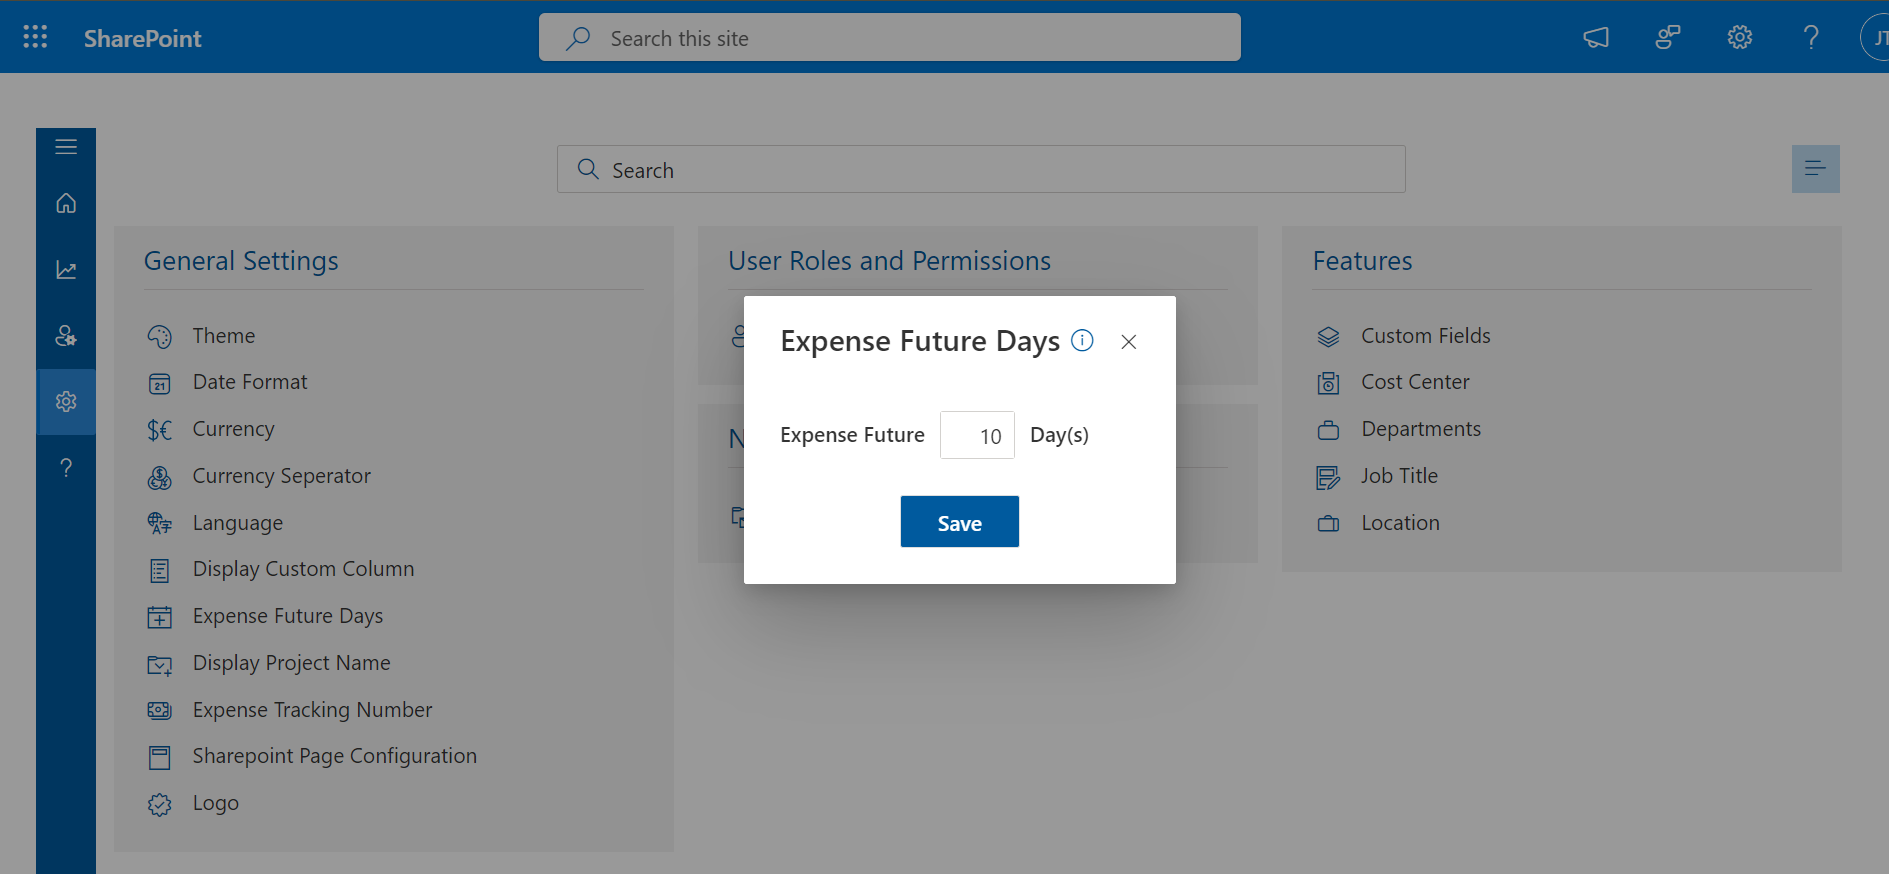
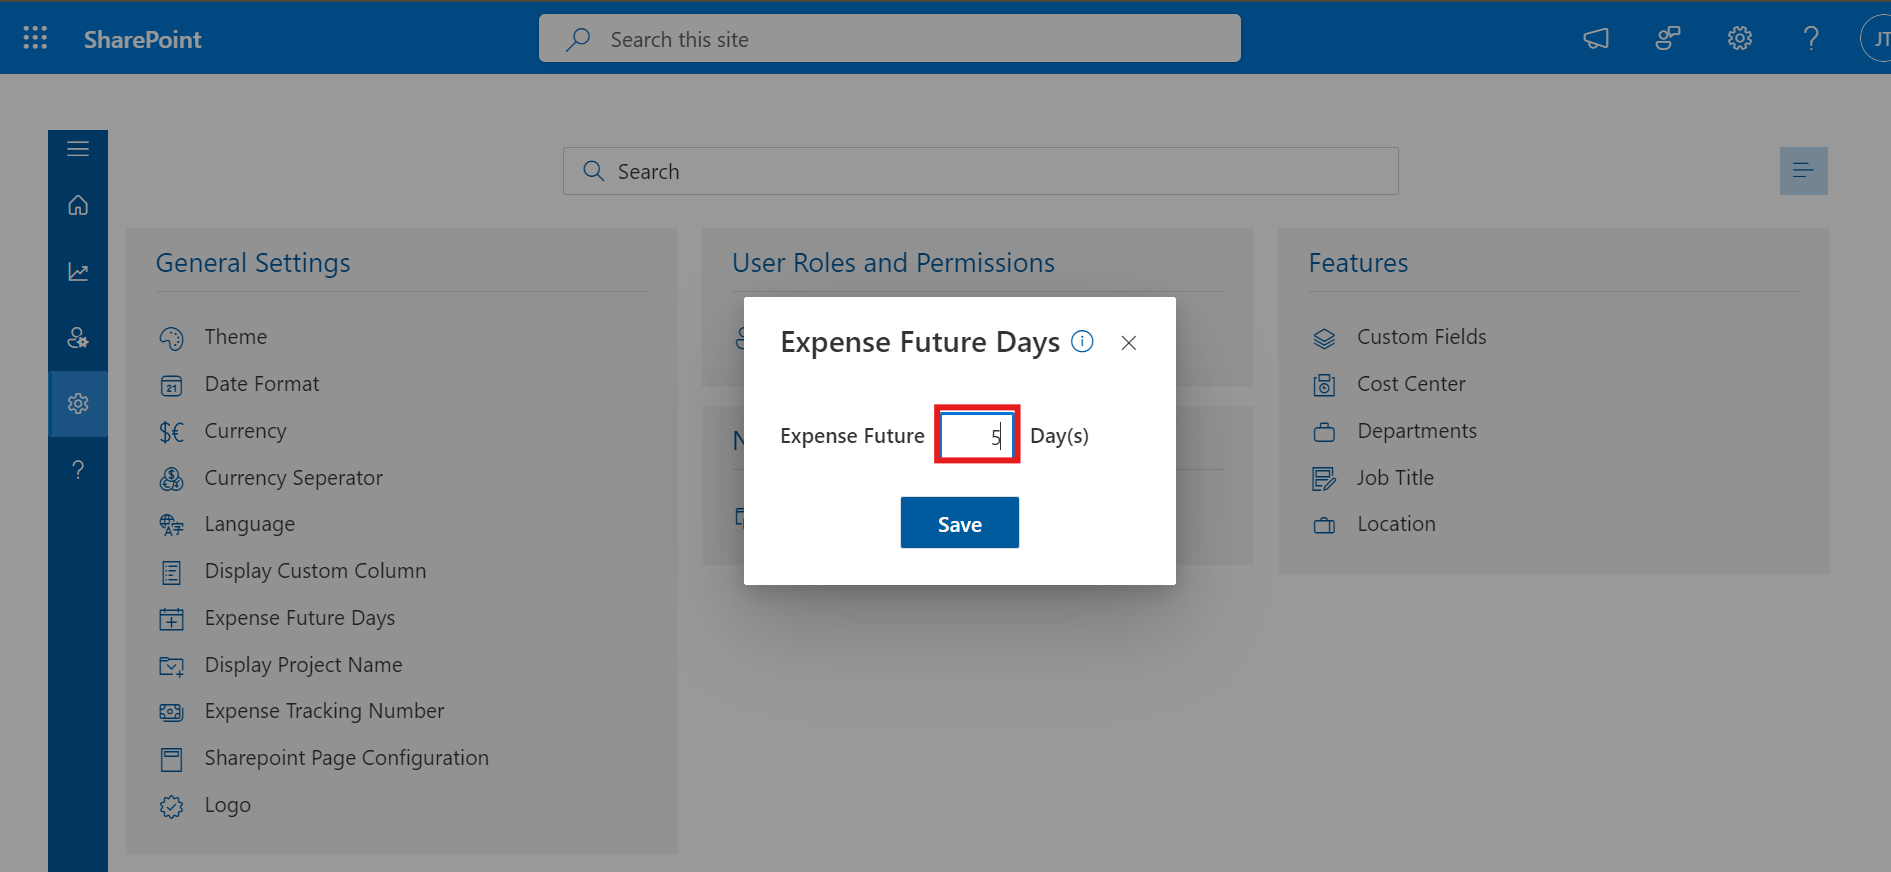
release notes

diff --git a/Expense-tracker/modern/admin/settings/index.html b/Expense-tracker/modern/admin/settings/index.html
@@ -146,25 +146,37 @@
                                             height="auto"></div><br>
 
                                     <li><b>Currency Seperator </b>: With this feature, you can change the currency
-                                        separator by selecting the checkbox.</li> <br>
+                                        separator by selecting the checkbox for international, India, or no separator.
+                                        For example, selecting "international" would format the number as 1,000.00,
+                                        "India" would format it as 1,00,000.00, and "no separator" would format it as
+                                        100000.00.</li> <br>
                                     <div> <img src="6.png" onclick="openModal( '6.png') " alt="Settings" width="100% "
                                             height="auto"></div><br>
 
                                     <li><b>Language </b>: With this feature, you can change the language selection if
-                                        the browser's default language is not detected.</li> <br>
+                                        the browser's default language is not detected. You can select the desired
+                                        language from a dropdown menu, and that language will be applied to your
+                                        application.For example, if you select French,the application language will
+                                        change to French.</li> <br>
                                     <div> <img src="7.png" onclick="openModal( '7.png') " alt="Settings" width="100% "
                                             height="auto"></div><br>
 
                                     <li><b>Custom Column </b>: To enable the display of custom columns, turn on the
-                                        toggle.</li> <br>
+                                        toggle. The custom columns will then be displayed in the detailed list on the
+                                        homepage.</li> <br>
                                     <div> <img src="8.png" onclick="openModal( '8.png') " alt="Settings" width="100% "
+                                            height="auto"></div><br>
+                                    <div> <img src="20.png" onclick="openModal( '20.png') " alt="Settings" width="100% "
                                             height="auto"></div><br>
 
 
                                     <li><b>Expense Future Days </b>:When creating new expenses, the days from today's
                                         date up to the selected number of days will be active, while all other days will
-                                        be disabled.</li> <br>
+                                        be disabled. For example, if you select 5, then 5 days will be activated.
+                                    </li> <br>
                                     <div> <img src="9.png" onclick="openModal( '9.png') " alt="Settings" width="100% "
+                                            height="auto"></div><br>
+                                    <div> <img src="21.png" onclick="openModal( '21.png') " alt="Settings" width="100% "
                                             height="auto"></div><br>
 
                                     <li><b>Display Project Name </b>:To enable the project name, simply turn on the
@@ -245,10 +257,11 @@
 
                                 <div> <img src="user2.png" onclick="openModal( 'user2.png') " alt="Settings"
                                         width="100% " height="auto"></div><br>
-                                        <p>
-                                            You can edit, delete, or deactivate a user. If you deactivate a user, they will appear in the Inactive window, where you can reactivate them.</p> <br>
-                                            <div> <img src="user3.png" onclick="openModal( 'user3.png') " alt="Settings"
-                                                width="100% " height="auto"></div><br>
+                                <p>
+                                    You can edit, delete, or deactivate a user. If you deactivate a user, they will
+                                    appear in the Inactive window, where you can reactivate them.</p> <br>
+                                <div> <img src="user3.png" onclick="openModal( 'user3.png') " alt="Settings"
+                                        width="100% " height="auto"></div><br>
                             </ul>
 
 
@@ -256,45 +269,52 @@
                         </div>
 
                         <div class="bg-light p-4 common-scroll remove-padding" id="Notification">
-                            <h3 id="_dashboards"><a class="header-icon-link highlight " href=#>Notification<i class="fas fa-link " style="font-size:12px; color:lightgray;"></i></a>
+                            <h3 id="_dashboards"><a class="header-icon-link highlight " href=#>Notification<i
+                                        class="fas fa-link " style="font-size:12px; color:lightgray;"></i></a>
                             </h3>
                             <br>
 
                             <ul class=page-list>
                                 <p>You can add a dynamic email template here.</p>
-                                <div> <img src="notification.png" onclick="openModal( 'notification.png') " alt="Settings"
-                                        width="100% " height="auto"></div><br>
-                              
+                                <div> <img src="notification.png" onclick="openModal( 'notification.png') "
+                                        alt="Settings" width="100% " height="auto"></div><br>
+
                             </ul>
 
 
 
                         </div>
-   
+
                         <div class="bg-light p-4 common-scroll remove-padding" id="feature">
-                            <h3 id="_dashboards"><a class="header-icon-link highlight " href=#>Feature<i class="fas fa-link " style="font-size:12px; color:lightgray;"></i></a>
+                            <h3 id="_dashboards"><a class="header-icon-link highlight " href=#>Feature<i
+                                        class="fas fa-link " style="font-size:12px; color:lightgray;"></i></a>
                             </h3>
                             <br>
 
                             <ul class=page-list>
-                                
+
                                 <div> <img src="Feature.png" onclick="openModal( 'Feature.png') " alt="Settings"
                                         width="100% " height="auto"></div><br>
-                              <p>You can create a custom field in this feature. Click the "+ Custom Field" button, fill in the columns, and then click the "Save" button.</p> <br>
-                              <div> <img src="fe.png" onclick="openModal( 'fe.png') " alt="Settings"
-                                width="100% " height="auto"></div><br>
-                                <p>You can create a Cost Cneter in this feature. Click the "+ Cost Center" button, fill in the columns, and then click the "Save" button.</p> <br>
-                                <div> <img src="Cost.png" onclick="openModal( 'Cost.png') " alt="Settings"
-                                  width="100% " height="auto"></div><br>
-                                  <p>You can create a Department in this feature. Click the "+Department" button, fill in the columns, and then click the "Save" button.</p> <br>
-                                  <div> <img src="Department.png" onclick="openModal( 'Department.png') " alt="Settings"
-                                    width="100% " height="auto"></div><br>
-                                    <p>You can create a Job Title in this feature. Click the "+Add" button, fill in the columns, and then click the "Save" button.</p> <br>
-                                    <div> <img src="Jobtitle.png" onclick="openModal( 'Jobtitle.png') " alt="Settings"
-                                      width="100% " height="auto"></div><br>
-                                      <p>You can create a Location in this feature. Click the "+Add" button, fill in the columns, and then click the "Save" button.</p> <br>
-                                    <div> <img src="Location.png" onclick="openModal( 'Location.png') " alt="Settings"
-                                      width="100% " height="auto"></div><br>
+                                <p>You can create a custom field in this feature. Click the "+ Custom Field" button,
+                                    fill in the columns, and then click the "Save" button.</p> <br>
+                                <div> <img src="fe.png" onclick="openModal( 'fe.png') " alt="Settings" width="100% "
+                                        height="auto"></div><br>
+                                <p>You can create a Cost Cneter in this feature. Click the "+ Cost Center" button, fill
+                                    in the columns, and then click the "Save" button.</p> <br>
+                                <div> <img src="Cost.png" onclick="openModal( 'Cost.png') " alt="Settings" width="100% "
+                                        height="auto"></div><br>
+                                <p>You can create a Department in this feature. Click the "+Department" button, fill in
+                                    the columns, and then click the "Save" button.</p> <br>
+                                <div> <img src="Department.png" onclick="openModal( 'Department.png') " alt="Settings"
+                                        width="100% " height="auto"></div><br>
+                                <p>You can create a Job Title in this feature. Click the "+Add" button, fill in the
+                                    columns, and then click the "Save" button.</p> <br>
+                                <div> <img src="Jobtitle.png" onclick="openModal( 'Jobtitle.png') " alt="Settings"
+                                        width="100% " height="auto"></div><br>
+                                <p>You can create a Location in this feature. Click the "+Add" button, fill in the
+                                    columns, and then click the "Save" button.</p> <br>
+                                <div> <img src="Location.png" onclick="openModal( 'Location.png') " alt="Settings"
+                                        width="100% " height="auto"></div><br>
                             </ul>
 
 

diff --git a/online-asset-management-application/modern/release-note/index.html b/online-asset-management-application/modern/release-note/index.html
@@ -84,9 +84,9 @@
                                 </a>
                                 <ul>
                                     <li data-nav-id=../../../Getting-started/installation/using-app-file/app-file.html
-                                    title= 24.0709.1640.0000   class="sidelist versiononclick">
+                                    title= 24.711.1152.0000   class="sidelist versiononclick">
                                     <a href="#releasenot16">
-                                        Version 24.0709.1640.0000 
+                                        Version 24.711.1152.0000
                                     </a>
                                 </li>
                                     <li data-nav-id=../../../Getting-started/installation/using-app-file/app-file.html
@@ -200,7 +200,7 @@
                                 class="sidelist">
                                 <h3 id="_dashboards"><a class="header-icon-link highlight" href="#">Release Note<i
                                             class="fas fa-link" style="font-size:12px; color:lightgray;"></i></a> </h3>
-                                <p>Version 24.0709.1640.0000   &nbsp&nbsp&nbsp&nbsp&nbsp&nbsp Released 9-July-2024</p>
+                                <p>Version 24.711.1152.0000   &nbsp&nbsp&nbsp&nbsp&nbsp&nbsp Released 9-July-2024</p>
                                 <div>
                                     <div contenteditable="false" class="sc-gzcbmu bbnSRJ">
                                         <div class="sc-gkCoMD enpFfZ">
